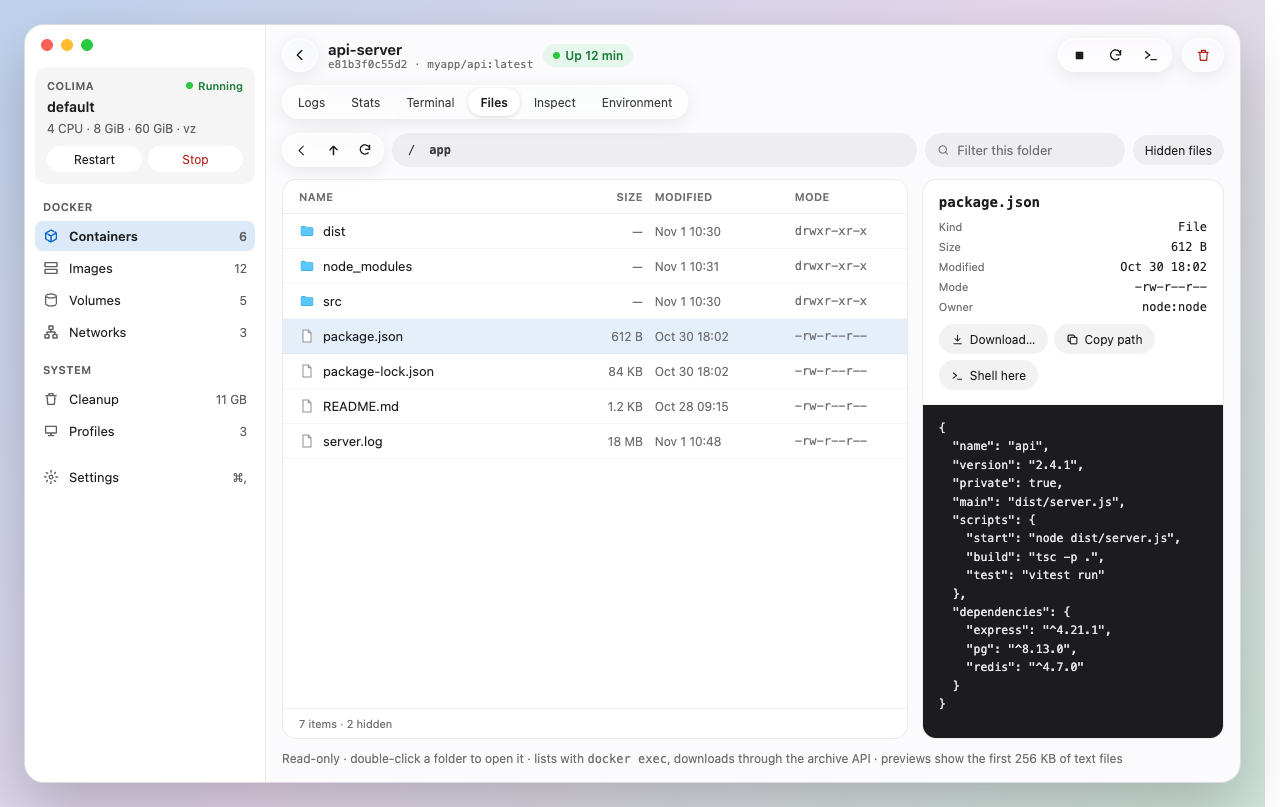
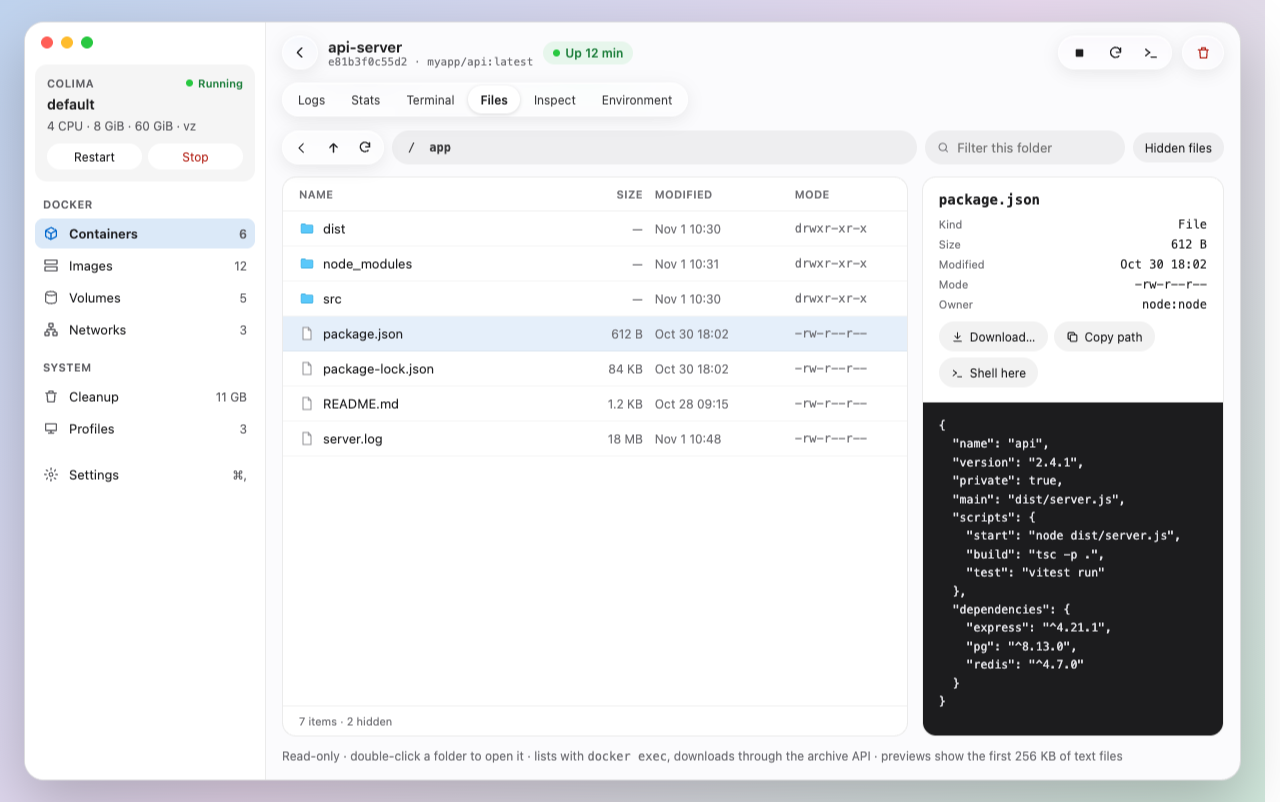
docs: lay out the README screenshots in equal columns

diff --git a/README.md b/README.md
@@ -47,21 +47,29 @@ A shell inside the container, right in the app.
 
 ### Everything else about a container
 
-| | |
-| --- | --- |
-| **Stats** — live CPU, memory, network and block I/O charts | **Files** — browse folders, preview files and download them |
-| ![Live stats](docs/images/stats.png) | ![Files](docs/images/files.png) |
-| **Environment** — variables from the image and the container, secrets masked | **Inspect** — the full `docker inspect` as a collapsible tree |
-| ![Environment](docs/images/environment.png) | ![Inspect](docs/images/inspect.png) |
+<table>
+  <tr>
+    <td width="50%" valign="top"><b>Stats</b> — live CPU, memory, network and block I/O charts<br><br><img src="docs/images/stats.png" width="100%" alt="Live stats"></td>
+    <td width="50%" valign="top"><b>Files</b> — browse folders, preview files and download them<br><br><img src="docs/images/files.png" width="100%" alt="Files"></td>
+  </tr>
+  <tr>
+    <td width="50%" valign="top"><b>Environment</b> — variables from the image and the container, secrets masked<br><br><img src="docs/images/environment.png" width="100%" alt="Environment"></td>
+    <td width="50%" valign="top"><b>Inspect</b> — the full <code>docker inspect</code> as a collapsible tree<br><br><img src="docs/images/inspect.png" width="100%" alt="Inspect"></td>
+  </tr>
+</table>
 
 ### Run, clean up and manage Colima
 
-| | |
-| --- | --- |
-| **Run a container** — image, name, ports, volumes, environment and restart policy | **Cleanup** — see what fills the VM disk and prune it |
-| ![Run container](docs/images/run-container.png) | ![Cleanup](docs/images/cleanup.png) |
-| **Profiles** — create, edit and delete Colima profiles | **Menu bar** — VM status and quick start and stop, without opening the window |
-| ![Profiles](docs/images/profiles.png) | ![Menu bar](docs/images/menu-bar.png) |
+<table>
+  <tr>
+    <td width="50%" valign="top"><b>Run a container</b> — image, name, ports, volumes, environment and restart policy<br><br><img src="docs/images/run-container.png" width="100%" alt="Run container"></td>
+    <td width="50%" valign="top"><b>Cleanup</b> — see what fills the VM disk and prune it<br><br><img src="docs/images/cleanup.png" width="100%" alt="Cleanup"></td>
+  </tr>
+  <tr>
+    <td width="50%" valign="top"><b>Profiles</b> — create, edit and delete Colima profiles<br><br><img src="docs/images/profiles.png" width="100%" alt="Profiles"></td>
+    <td width="50%" valign="top"><b>Menu bar</b> — VM status and quick start and stop, without opening the window<p align="center"><img src="docs/images/menu-bar.png" width="170" alt="Menu bar"></p></td>
+  </tr>
+</table>
 
 Images, volumes and networks have their own screens too, and Settings covers startup, notifications (a container that crashes or restart-loops, a VM that stops, a disk almost full), shortcuts and a light or dark theme.
 
